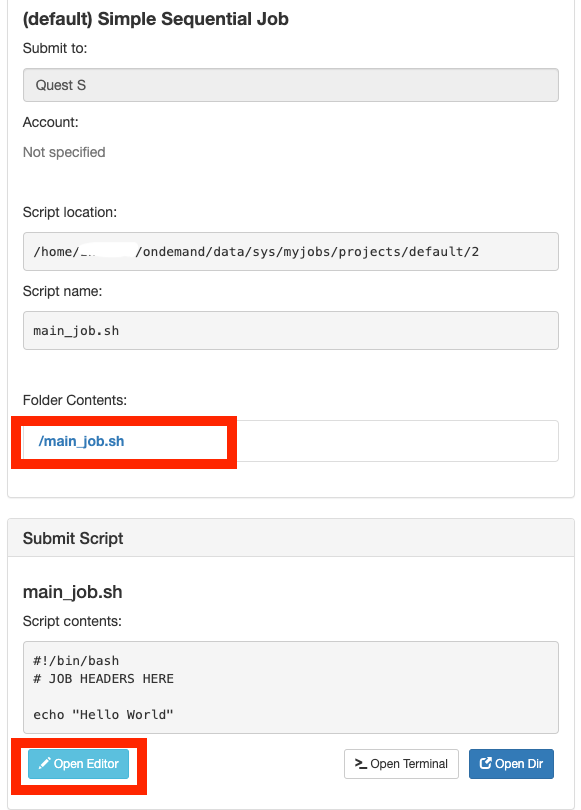
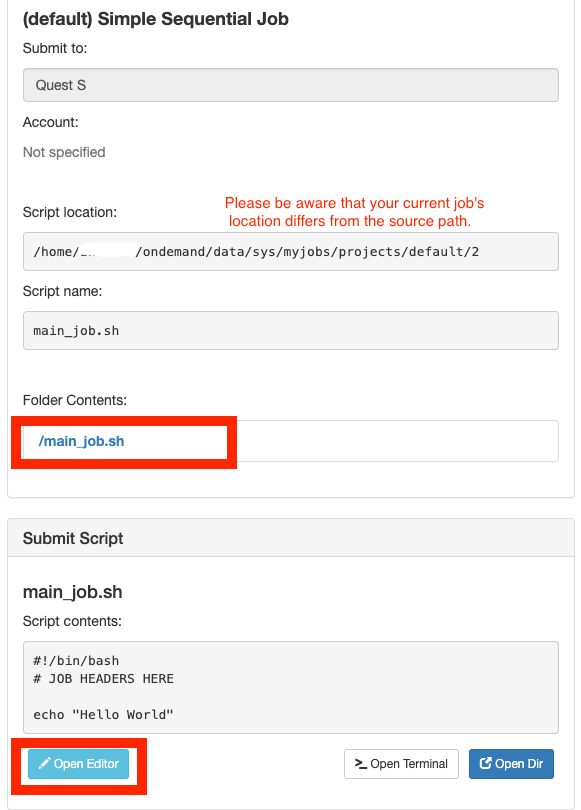
tiny change

Changed region(s): [[0.3718, 0.2469, 0.8365, 0.2778]]

diff --git a/README.md b/README.md
@@ -113,9 +113,8 @@ The following window will appear in a new tab of your browser.\
 ### Steps for creating a new Quest job
 
 1. **Create a new job** by copying from an existing job template directory or a previously run job directory.
-   - Create: Begin by creating a new job from an existing template, from any arbitrary path on the file system, or by copying a job you have already created through the Job Composer.
+   - Create: Begin by creating a new job from an existing template, from any arbitrary path on the file system, or by copying a job you have already created through the Job Composer. Please be aware of your current working directory of this new job. 
   ![new_job_options](images/jobs/new_job_options.png)
- 
 
      - Option 1: from default template
        - the script location of default job is "/home/netID/ondemand/data/sys/myjobs/projects/default/#". A new folder will be automatically created with script name of "main_job.sh"
@@ -190,12 +189,9 @@ Without openning a terminal window, you can open  Quest S shell via OnDemand, wh
 
 ---
 
-
 ## TODO:
-1. account is optional field? multiple allocation? the need to specify the account?
+1. see what is default on the account entry for people with mutiple allocations
 2. running a job and see more infomation about this job in Active Jobs page
-3. a bug? when clicking the "Create new job" button shown below, a new job page will show up with either 0 or one job with no previous job appearing. users will have to click "Jobs" page to see all previous jobs including the new one.
-![create_new_job_in_template_page](images/jobs/create_new_job_in_template_page.png)
 
 ---
 
